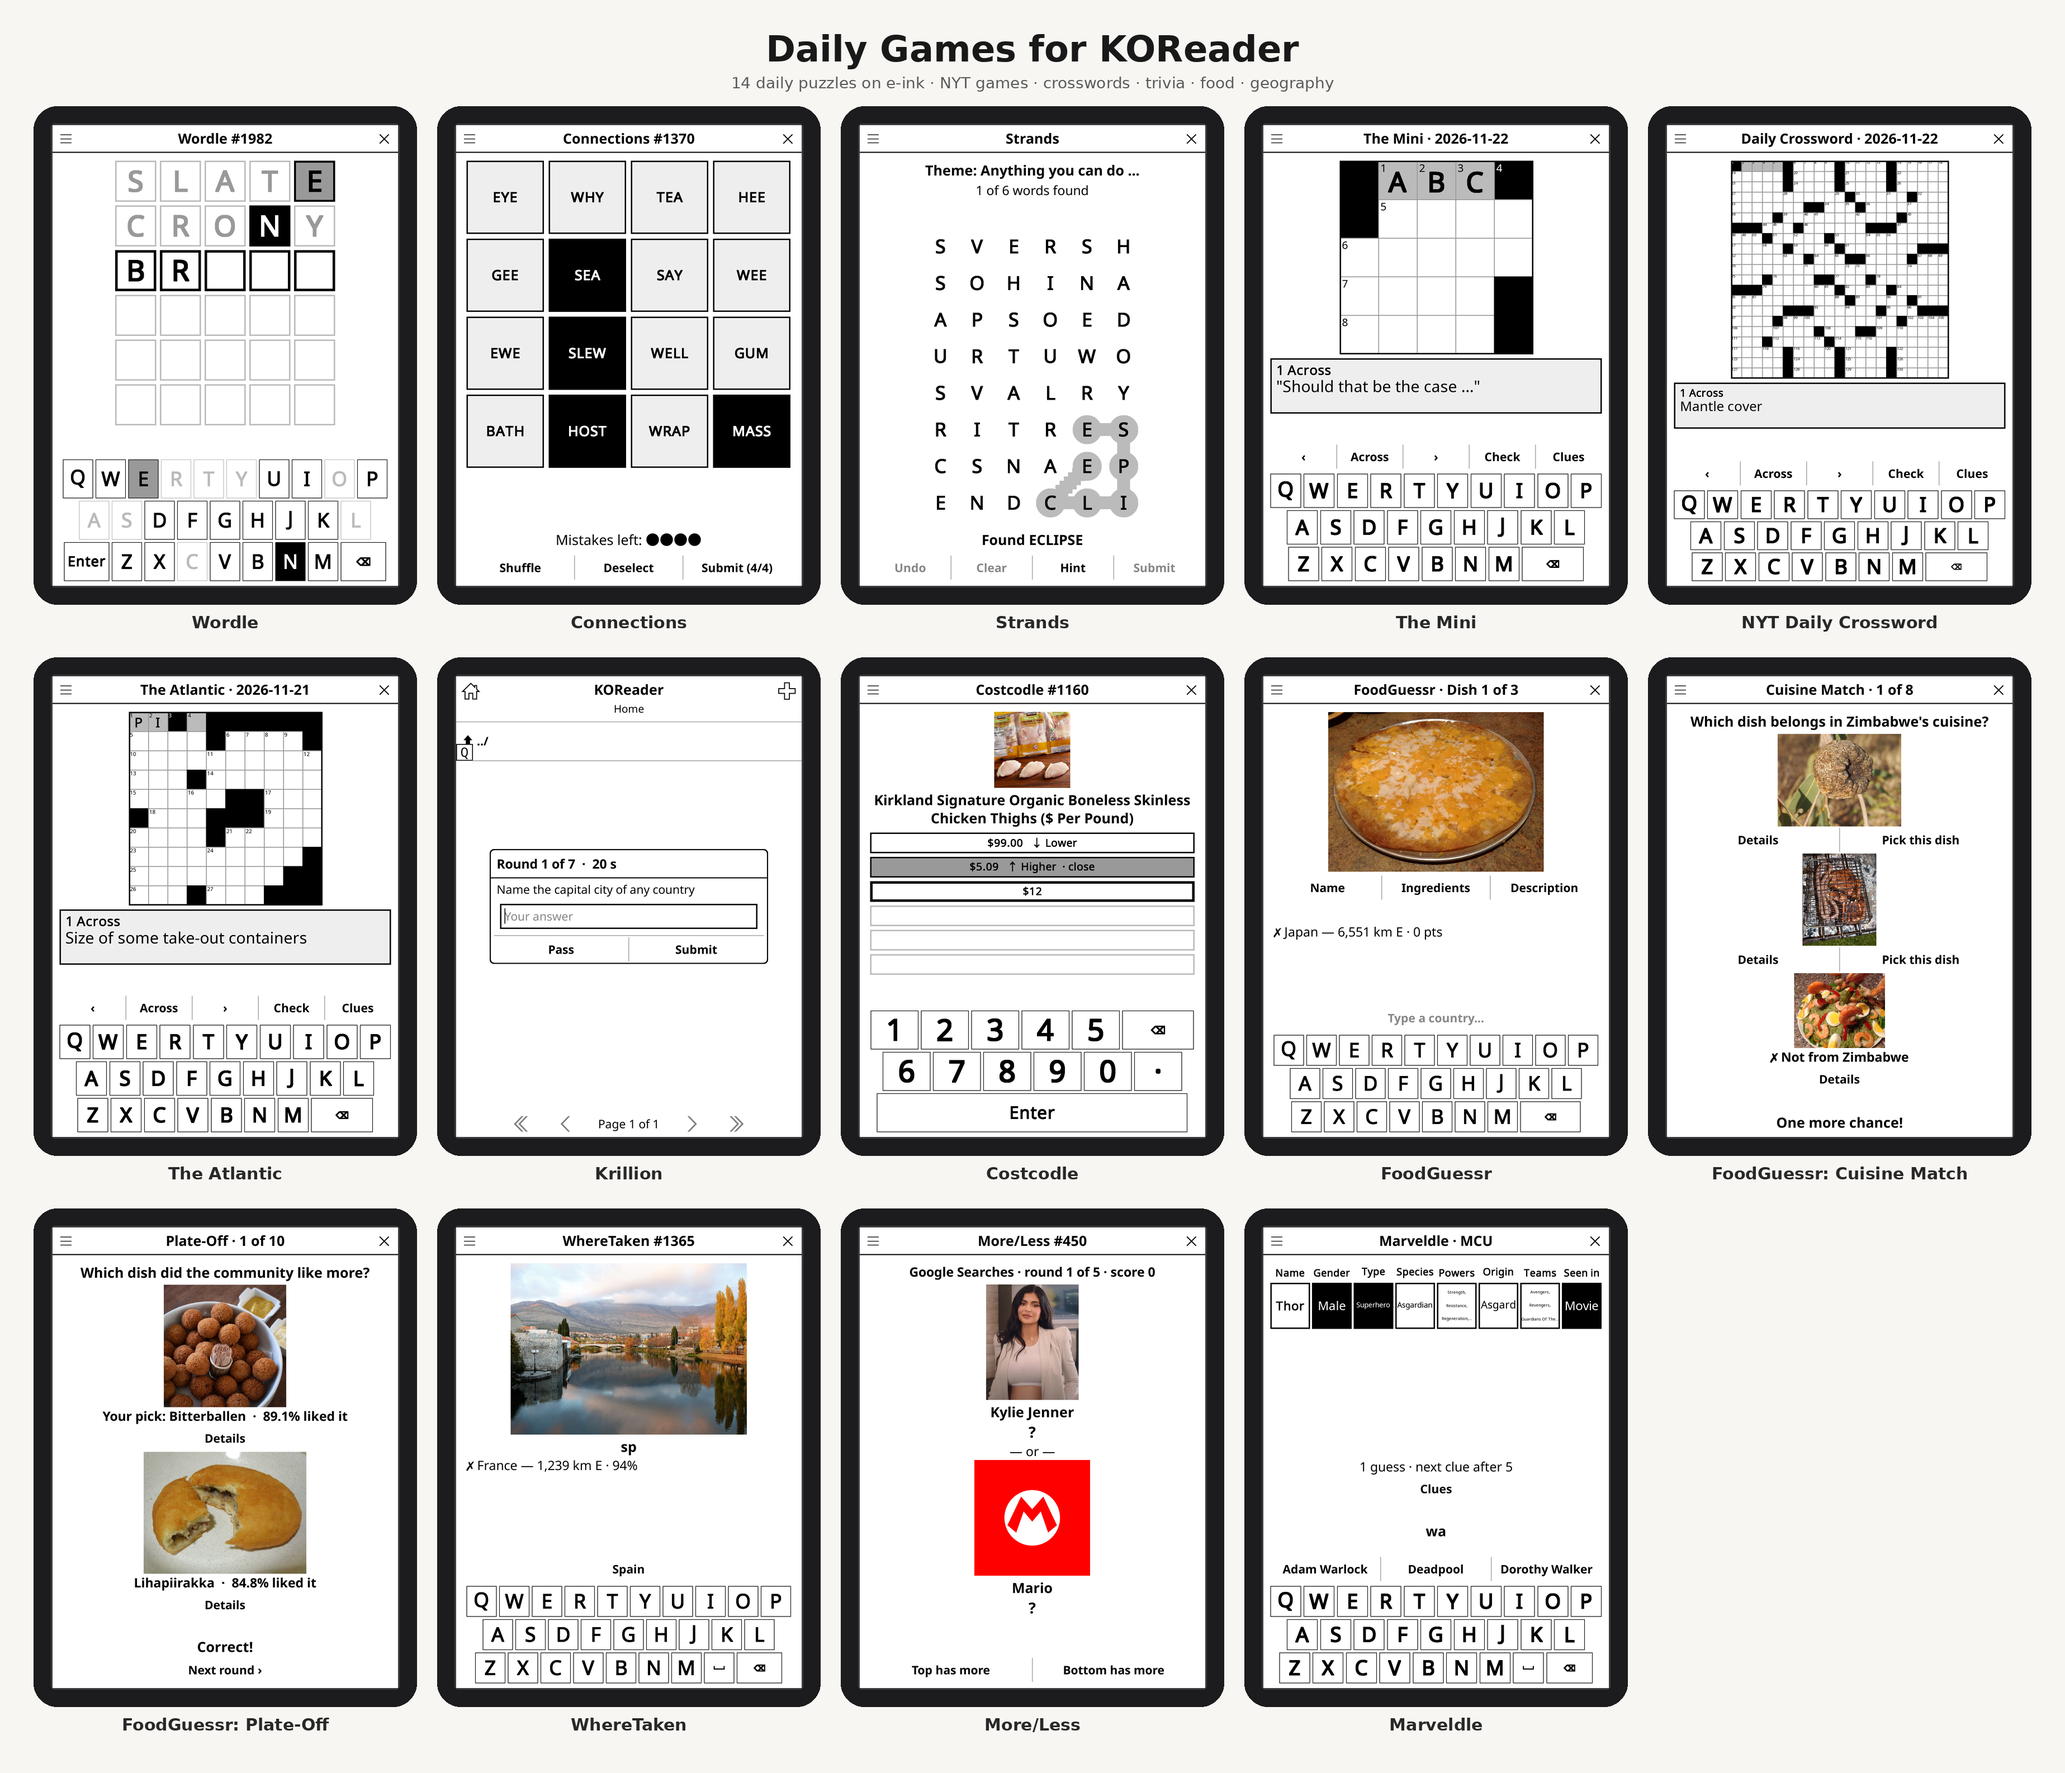
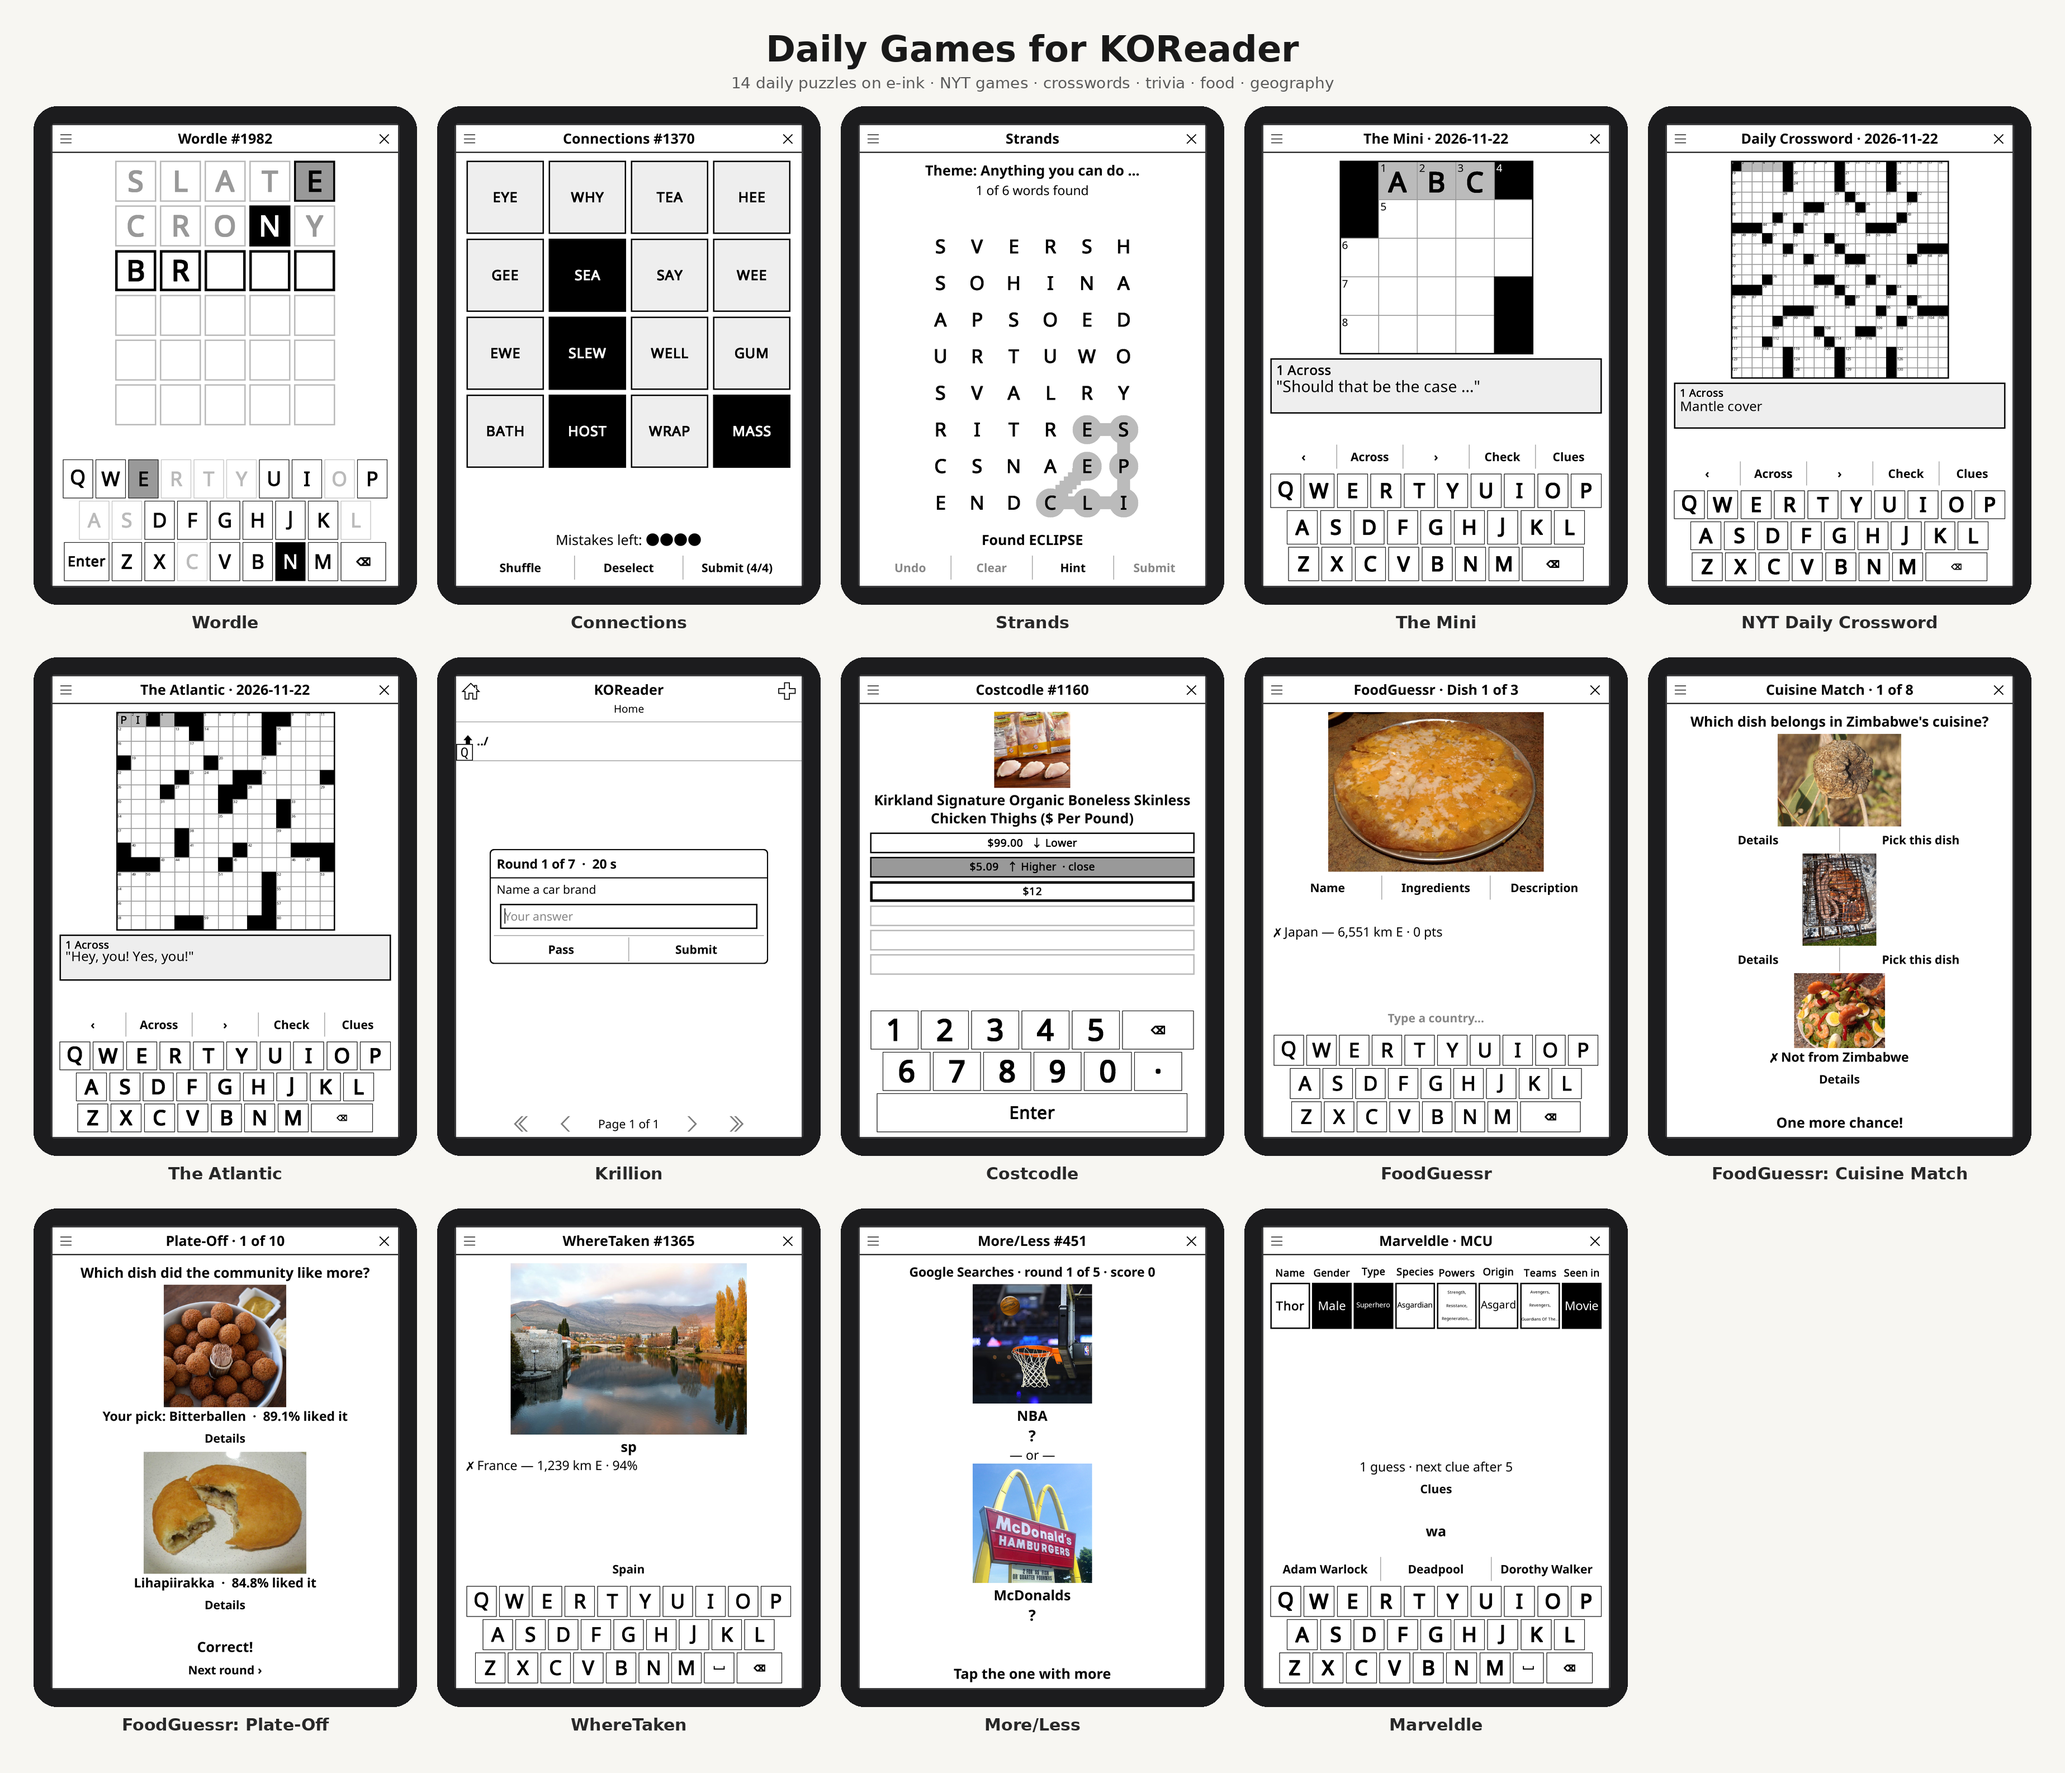
ZenPM source: release asset sizes as numbers
ZenPM decodes versions.json asset sizes as int64; strings made 'available
versions' fail with HTTP 502. Also refresh the colour showcase.

Claude-Session: https://claude.ai/code/session_01N4ccNQws4typuCmvNnogEj

Changed region(s): [[0.0311, 0.3745, 0.1868, 0.6242], [0.467, 0.7178, 0.5292, 0.9051], [0.467, 0.9363, 0.5292, 0.9675]]

diff --git a/.github/scripts/zenpm_manifest.py b/.github/scripts/zenpm_manifest.py
@@ -34,7 +34,7 @@ def main():
         if rel.get("draft"):
             continue
         assets = [
-            {"name": a["name"], "url": a["browser_download_url"], "size": str(a["size"]),
+            {"name": a["name"], "url": a["browser_download_url"], "size": int(a["size"]),  # ZenPM wants a number
              **({"digest": a["digest"]} if a.get("digest") else {})}
             for a in rel.get("assets", []) if a["name"] == ASSET
         ]
